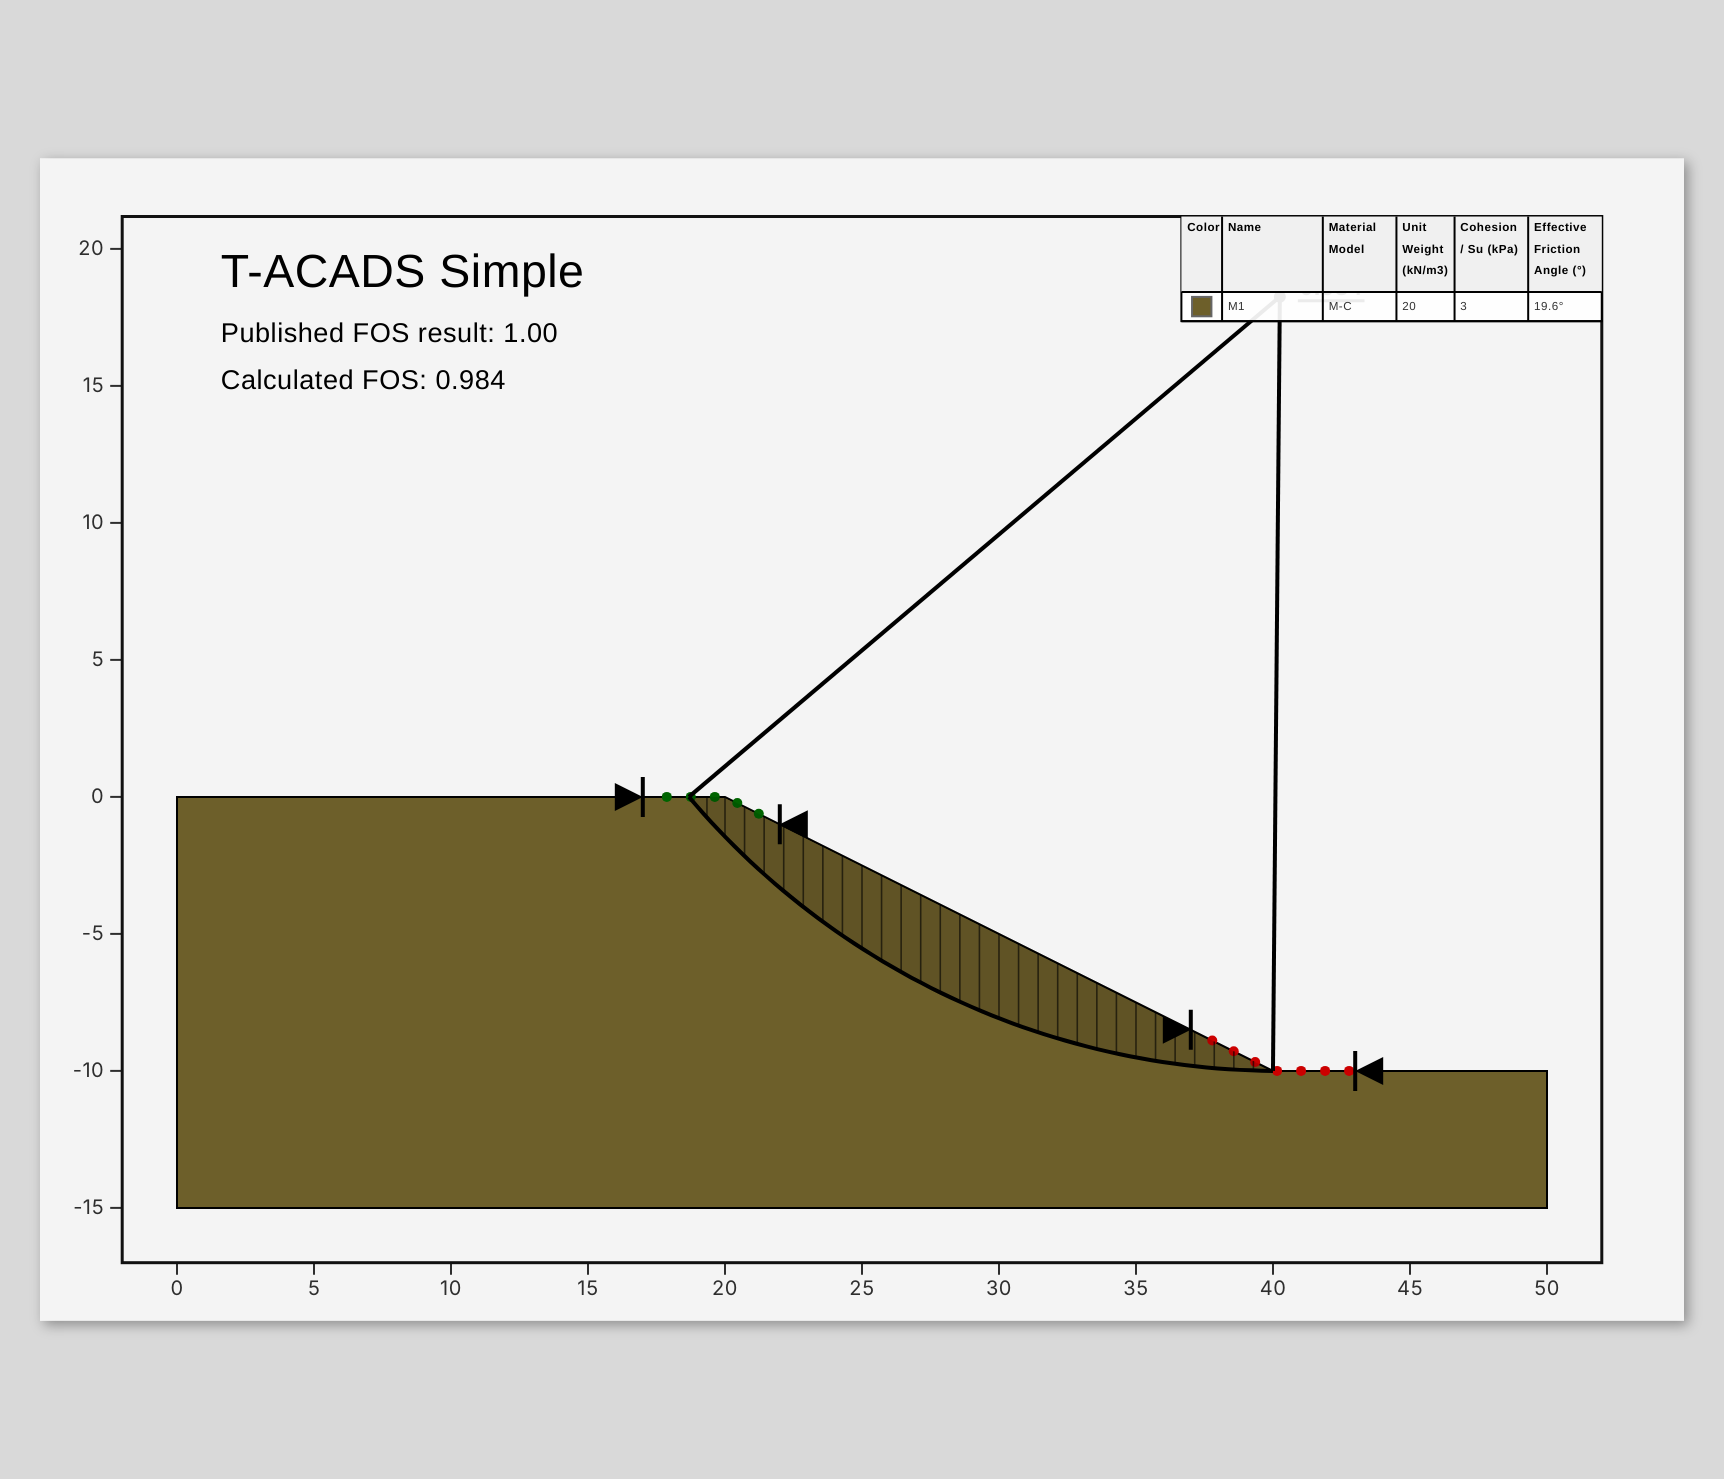
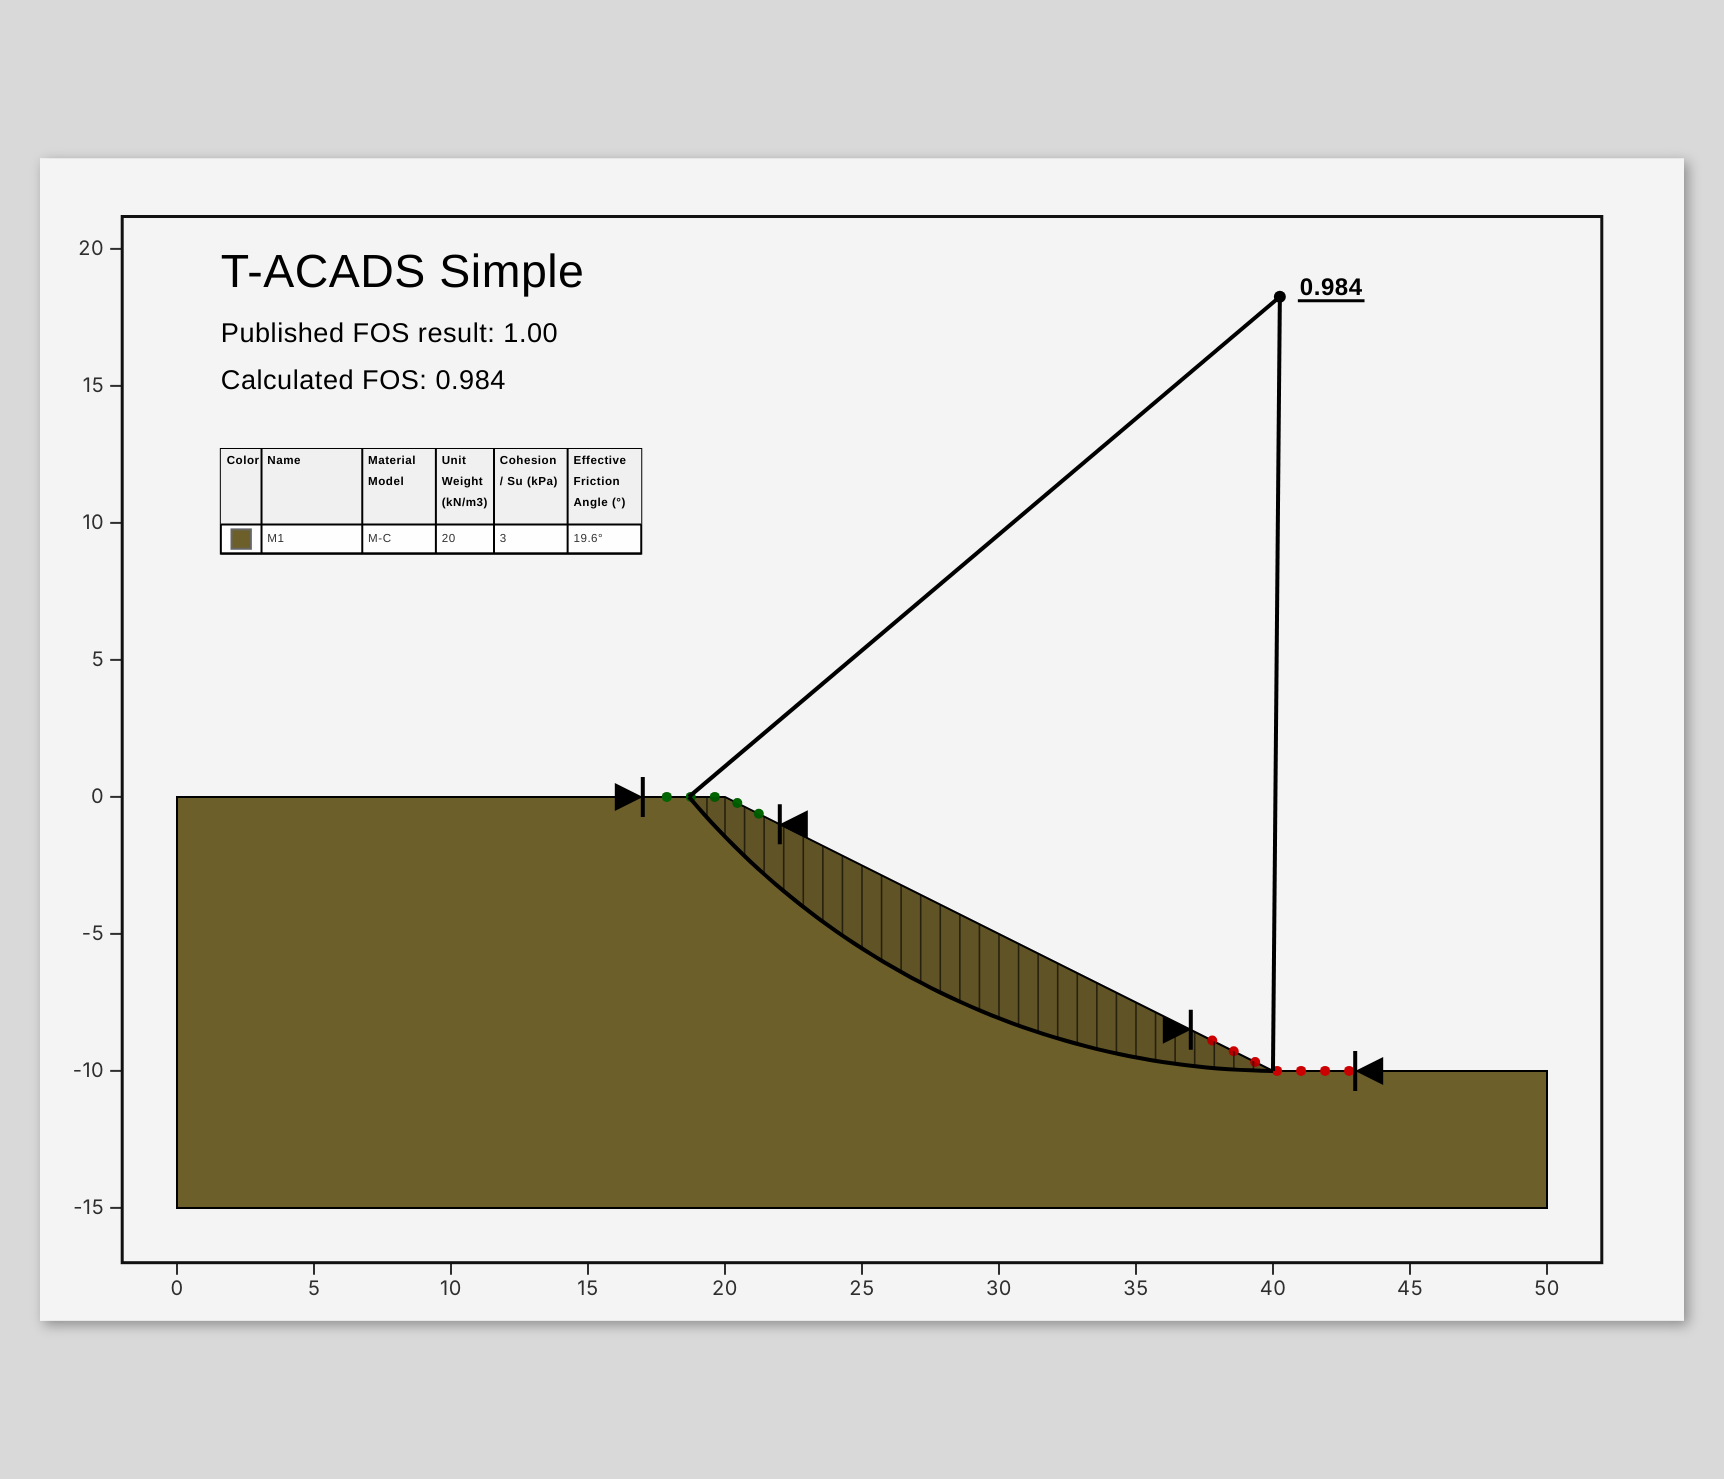
Website: show the whole program in the hero, centre not hidden
- The home page hero shows the full program window (ribbon, models,
  canvas, summary) in a new capture, result-app.png, below the text
  instead of the canvas only beside it, so it is wide enough to read.
- The benchmark models put the material table at the top right, over the
  centre of the critical circle; the result scenes move it under the
  title, so the centre and its factor of safety show.

Claude-Session: https://claude.ai/code/session_01Ku3vDTvhKJCcocceRyUbB3

diff --git a/packages/website/src/content/media-scenes.ts b/packages/website/src/content/media-scenes.ts
@@ -35,6 +35,17 @@ function tutorial(name: string, benchmark: string, common: SceneSetup, list: Tut
   }));
 }
 
+/**
+ * The benchmark models put the material table at the top right, where the
+ * centre of a slope's critical circle often lies; this moves it under the
+ * title instead.
+ */
+const MATERIAL_TABLE_LEFT: [string, ...unknown[]] = [
+  "updateAnnotation",
+  "anno-benchmark-material-table",
+  { x: 0.11, y: 0.25, anchor: "top-left" },
+];
+
 export const scenes: Scene[] = [
   // ── Edit-mode scenes ──────────────────────────────────────────
 
@@ -92,12 +103,34 @@ export const scenes: Scene[] = [
         showCentreMarker: true,
         surfaceDisplay: "critical",
       },
+      actions: [MATERIAL_TABLE_LEFT],
     },
     output: {
       type: "png",
       filename: "result-critical-surface.png",
       crop: "canvas",
     },
+  },
+
+  {
+    id: "result-app",
+    title: "The Program",
+    description: "The whole program window with the critical slip surface, its centre and the summary",
+    benchmark: "T-ACADS Simple",
+    setup: {
+      mode: "result",
+      runAnalysis: true,
+      ribbonTab: "Results",
+      resultView: {
+        showSlices: true,
+        showSoilColor: true,
+        showFosLabel: true,
+        showCentreMarker: true,
+        surfaceDisplay: "critical",
+      },
+      actions: [MATERIAL_TABLE_LEFT],
+    },
+    output: { type: "png", filename: "result-app.png", crop: "full" },
   },
 
   {

diff --git a/packages/website/src/pages/Home.tsx b/packages/website/src/pages/Home.tsx
@@ -30,7 +30,7 @@ function Hero() {
         aria-hidden="true"
         className="pointer-events-none absolute inset-0 bg-[linear-gradient(to_right,hsl(var(--border)/0.5)_1px,transparent_1px),linear-gradient(to_bottom,hsl(var(--border)/0.5)_1px,transparent_1px)] bg-[size:32px_32px] [mask-image:linear-gradient(to_bottom,black,transparent_85%)]"
       />
-      <div className="relative mx-auto grid max-w-6xl items-center gap-12 px-4 py-16 sm:px-6 sm:py-24 lg:grid-cols-[1fr_1.15fr]">
+      <div className="relative mx-auto grid max-w-6xl gap-12 px-4 py-16 sm:px-6 sm:py-24">
         <div className="animate-fade-up">
           <p className="inline-flex items-center gap-2 rounded-full border bg-background px-3 py-1 text-xs font-medium text-muted-foreground">
             <span className="h-1.5 w-1.5 rounded-full bg-pass" aria-hidden="true" />
@@ -60,7 +60,8 @@ function Hero() {
           </div>
           <p className="mt-4 text-sm text-muted-foreground">Free and open source under the {SITE.licence} licence.</p>
         </div>
-        <Screenshot {...MEDIA.criticalSurface} priority className="animate-fade-up shadow-xl [animation-delay:120ms]" />
+        {/* The whole program, wide enough to read: below the text, not beside it. */}
+        <Screenshot {...MEDIA.app} priority className="animate-fade-up shadow-xl [animation-delay:120ms]" />
       </div>
     </section>
   );

diff --git a/packages/website/src/content/media.ts b/packages/website/src/content/media.ts
@@ -24,6 +24,7 @@ export function media(src: string, alt: string): Media {
 const generated = (file: string, alt: string): Media => media(`/media/generated/${file}`, alt);
 
 export const MEDIA = {
+  app: generated("result-app.png", "The cSlope window: the critical slip surface of a homogeneous slope with its centre, slices and factor of safety, the models, the ribbon and the summary of the analysis"),
   criticalSurface: generated("result-critical-surface.png", "Result view: the critical slip surface of a homogeneous slope with its slices, factor of safety and material table",
   ),
   allSurfaces: generated("result-all-surfaces.png", "Result view: every analysed slip surface coloured by its factor of safety",
